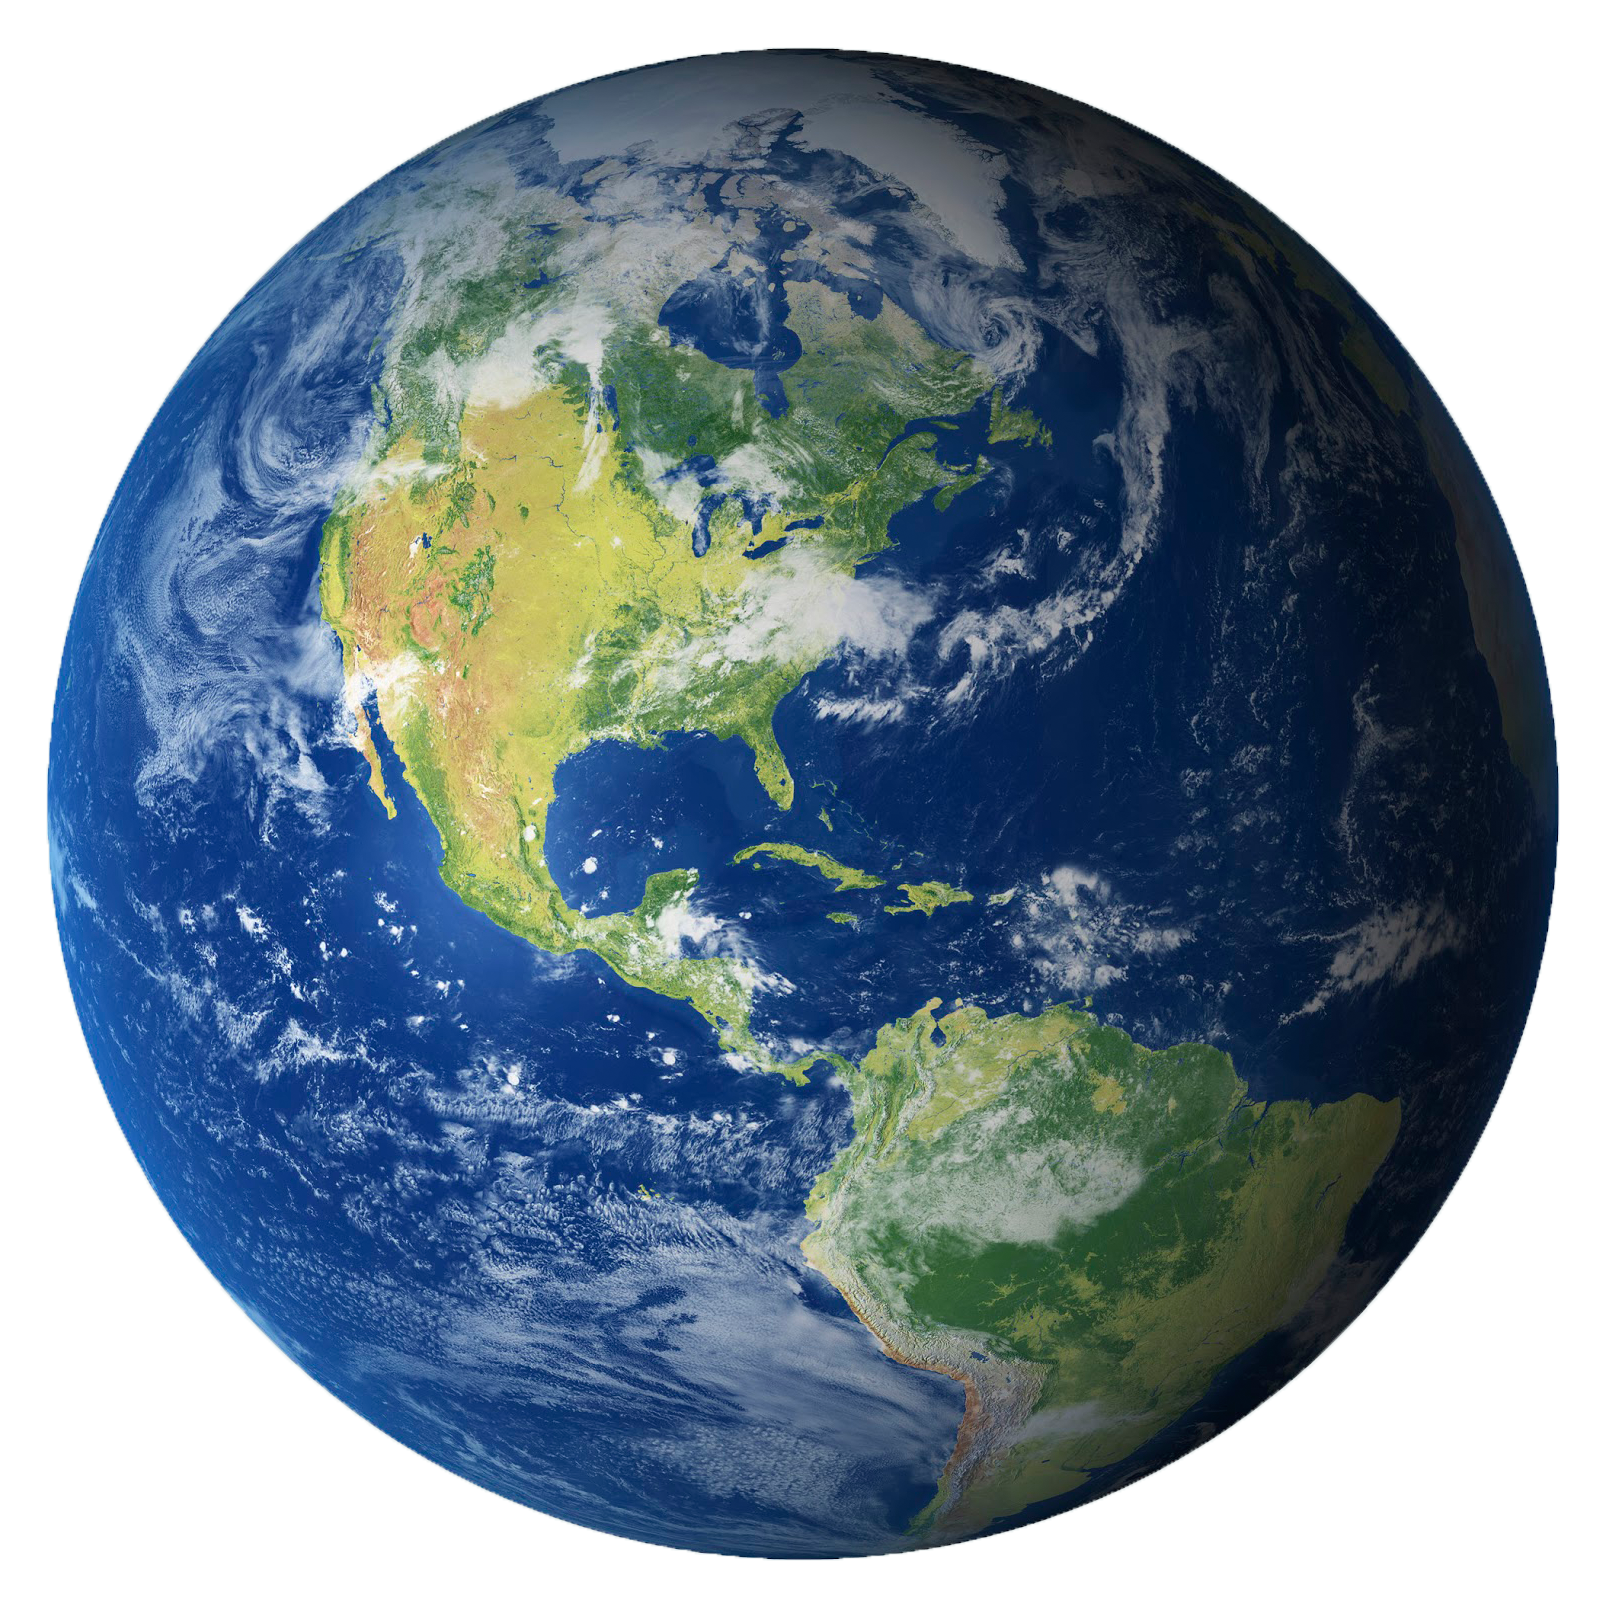
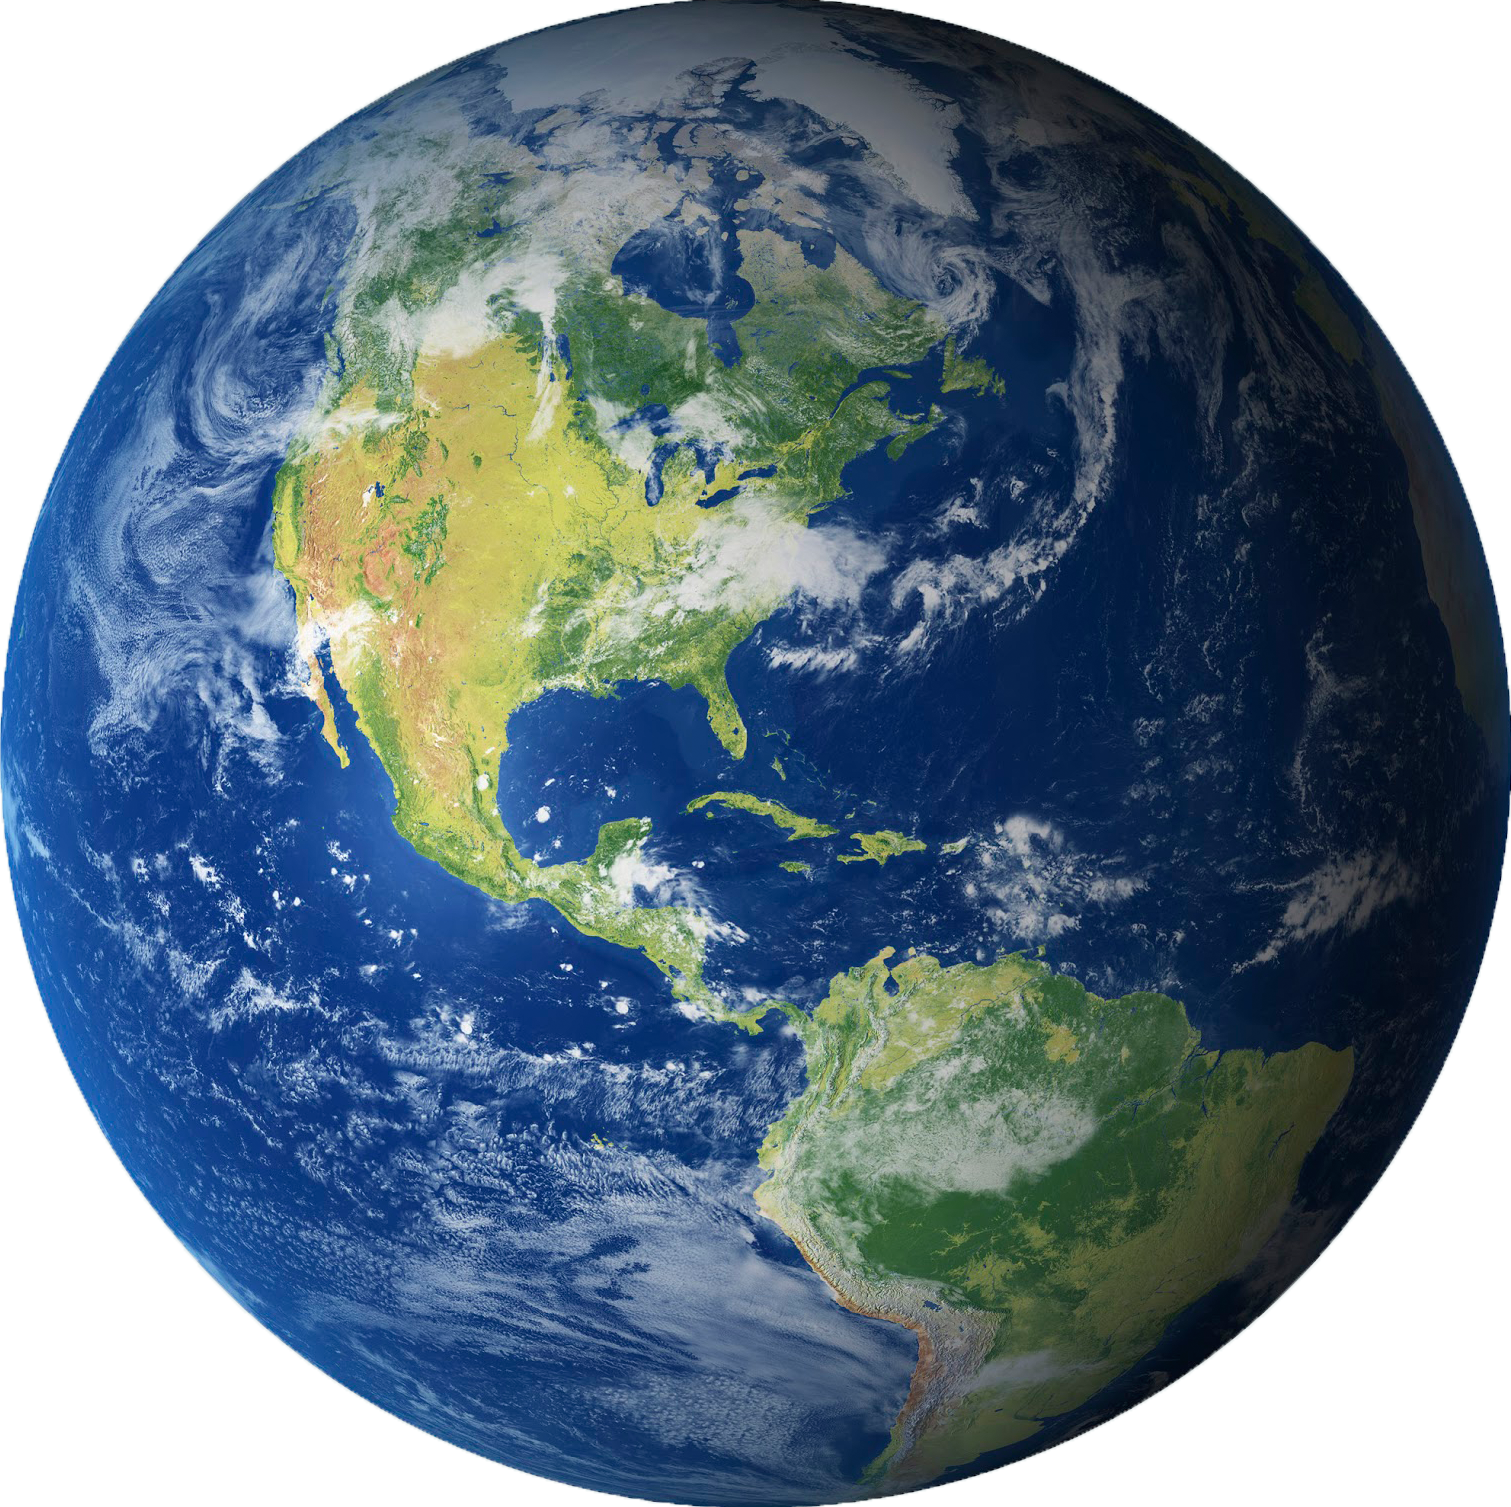
add bg

diff --git a/source/index.scss b/source/index.scss
@@ -68,6 +68,28 @@ section {
   margin: 200px 2rem;
 }
 
+/* BG Images */
+.earth {
+  display: none;
+
+  @include base.desktop-tablet-only {
+    display: inline-block;
+    position: absolute;
+    top: 0;
+    right: 0;
+
+    margin-right: -100px;
+    margin-top: -100px;
+    width: 550px;
+    height: 550px;
+
+    z-index: -1;
+
+    border-radius: 50%;
+    box-shadow: 10px 10px 10px 0px rgba(0, 0, 0, 0.25);
+  }
+}
+
 /* Intro Card */
 
 .intro-card {
@@ -91,13 +113,36 @@ section {
     float: left;
 
     span {
-      background: linear-gradient(92deg, #5e72eb -8%, #fd9494 107.93%);
+      background: linear-gradient(
+        92deg,
+        #5e72eb -8%,
+        #fd9494 25%,
+        #5e72eb 65%,
+        #fd9494 100%
+      );
+
+      background-size: 400% 400%;
+      background-repeat: no-repeat;
+
+      animation: gradient 15s base.$cubic-transition alternate infinite;
 
       font-size: 60px;
       text-transform: uppercase;
       background-clip: text;
       color: transparent;
       -webkit-background-clip: text;
+    }
+
+    @keyframes gradient {
+      0% {
+        background-position: 0% 0%;
+      }
+      50% {
+        background-position: 100% 100%;
+      }
+      100% {
+        background-position: 0% 0%;
+      }
     }
   }
 
@@ -161,6 +206,11 @@ section {
 .recent-news {
   --gap: 50px;
 
+  .mars {
+    position: absolute;
+    display: none;
+  }
+
   h2 {
     text-align: center;
     margin-bottom: 100px;
@@ -169,7 +219,7 @@ section {
   .card-carasol {
     --card-width: 247px;
     --card-height: 315px;
-    padding-inline: calc((100vw - var(--card-width)) / 2);
+    padding-inline: calc((100vw - var(--card-width)) / 2 - 2rem);
     position: relative;
 
     .card-wrapper {
@@ -316,6 +366,23 @@ section {
   @include base.desktop-tablet-only {
     margin-left: 40%;
     gap: 80px;
+
+    .mars {
+      filter: brightness(0.9);
+      transform: rotate(16.987deg);
+      display: inline-block;
+      left: 0;
+
+      margin-top: -100px;
+      margin-left: -100px;
+      width: 670px;
+      height: 670px;
+
+      border-radius: 50%;
+
+      box-shadow: 10px 10px 10px 0px rgba(0, 0, 0, 0.25);
+    }
+
     .card-carasol {
       flex-direction: row;
       height: calc(var(--card-height));
@@ -420,10 +487,17 @@ section {
   .card-wrapper {
     width: 100%;
     display: flex;
+    flex-direction: column;
     justify-content: center;
     align-items: center;
 
     gap: 50px;
+  }
+
+  @include base.desktop-tablet-only {
+    .card-wrapper {
+      flex-direction: row;
+    }
   }
 
   .card {

diff --git a/css/index.css b/css/index.css
@@ -61,6 +61,26 @@ section {
   margin: 200px 2rem;
 }
 
+/* BG Images */
+.earth {
+  display: none;
+}
+@media (min-width: 800px) {
+  .earth {
+    display: inline-block;
+    position: absolute;
+    top: 0;
+    right: 0;
+    margin-right: -100px;
+    margin-top: -100px;
+    width: 550px;
+    height: 550px;
+    z-index: -1;
+    border-radius: 50%;
+    box-shadow: 10px 10px 10px 0px rgba(0, 0, 0, 0.25);
+  }
+}
+
 /* Intro Card */
 .intro-card {
   width: 80%;
@@ -81,12 +101,26 @@ section {
   float: left;
 }
 .intro-card h1 span {
-  background: linear-gradient(92deg, #5e72eb -8%, #fd9494 107.93%);
+  background: linear-gradient(92deg, #5e72eb -8%, #fd9494 25%, #5e72eb 65%, #fd9494 100%);
+  background-size: 400% 400%;
+  background-repeat: no-repeat;
+  animation: gradient 15s cubic-bezier(0.215, 0.61, 0.355, 1) alternate infinite;
   font-size: 60px;
   text-transform: uppercase;
   background-clip: text;
   color: transparent;
   -webkit-background-clip: text;
+}
+@keyframes gradient {
+  0% {
+    background-position: 0% 0%;
+  }
+  50% {
+    background-position: 100% 100%;
+  }
+  100% {
+    background-position: 0% 0%;
+  }
 }
 .intro-card p {
   line-height: 130%;
@@ -137,6 +171,10 @@ section {
 .recent-news {
   --gap: 50px;
 }
+.recent-news .mars {
+  position: absolute;
+  display: none;
+}
 .recent-news h2 {
   text-align: center;
   margin-bottom: 100px;
@@ -144,7 +182,7 @@ section {
 .recent-news .card-carasol {
   --card-width: 247px;
   --card-height: 315px;
-  padding-inline: calc((100vw - var(--card-width)) / 2);
+  padding-inline: calc((100vw - var(--card-width)) / 2 - 2rem);
   position: relative;
 }
 .recent-news .card-carasol .card-wrapper {
@@ -261,6 +299,18 @@ section {
     margin-left: 40%;
     gap: 80px;
   }
+  .recent-news .mars {
+    filter: brightness(0.9);
+    transform: rotate(16.987deg);
+    display: inline-block;
+    left: 0;
+    margin-top: -100px;
+    margin-left: -100px;
+    width: 670px;
+    height: 670px;
+    border-radius: 50%;
+    box-shadow: 10px 10px 10px 0px rgba(0, 0, 0, 0.25);
+  }
   .recent-news .card-carasol {
     flex-direction: row;
     height: calc(var(--card-height));
@@ -345,9 +395,15 @@ section {
 .departments .card-wrapper {
   width: 100%;
   display: flex;
+  flex-direction: column;
   justify-content: center;
   align-items: center;
   gap: 50px;
+}
+@media (min-width: 800px) {
+  .departments .card-wrapper {
+    flex-direction: row;
+  }
 }
 .departments .card {
   position: relative;

diff --git a/index.html b/index.html
@@ -36,6 +36,8 @@
       </div>
     </div>
 
+    <img class="earth" src="imgs/earth.png" />
+
     <section class="intro-card">
       <h1>
         <span>Karura</span><br />
@@ -76,6 +78,7 @@
     </section>
 
     <section class="recent-news">
+      <img class="mars" src="/imgs/mars.png" />
       <h2>Recent News</h2>
       <div class="card-carasol">
         <div class="carasol-viewport">

diff --git a/css/navbar.css b/css/navbar.css
@@ -5,7 +5,7 @@
   width: 100%;
   align-items: center;
   justify-content: space-between;
-  background: linear-gradient(91deg, rgba(18, 12, 110, 0.57) 14.38%, #5e72eb 43.71%, #ff9190 81.58%);
+  background: linear-gradient(91deg, rgb(18, 12, 110) 14.38%, #5e72eb 43.71%, #ff9190 81.58%);
 }
 .navbar img {
   width: 120px;

diff --git a/source/navbar.scss b/source/navbar.scss
@@ -11,7 +11,7 @@
 
   background: linear-gradient(
     91deg,
-    rgba(18, 12, 110, 0.57) 14.38%,
+    rgba(18, 12, 110) 14.38%,
     #5e72eb 43.71%,
     #ff9190 81.58%
   );
